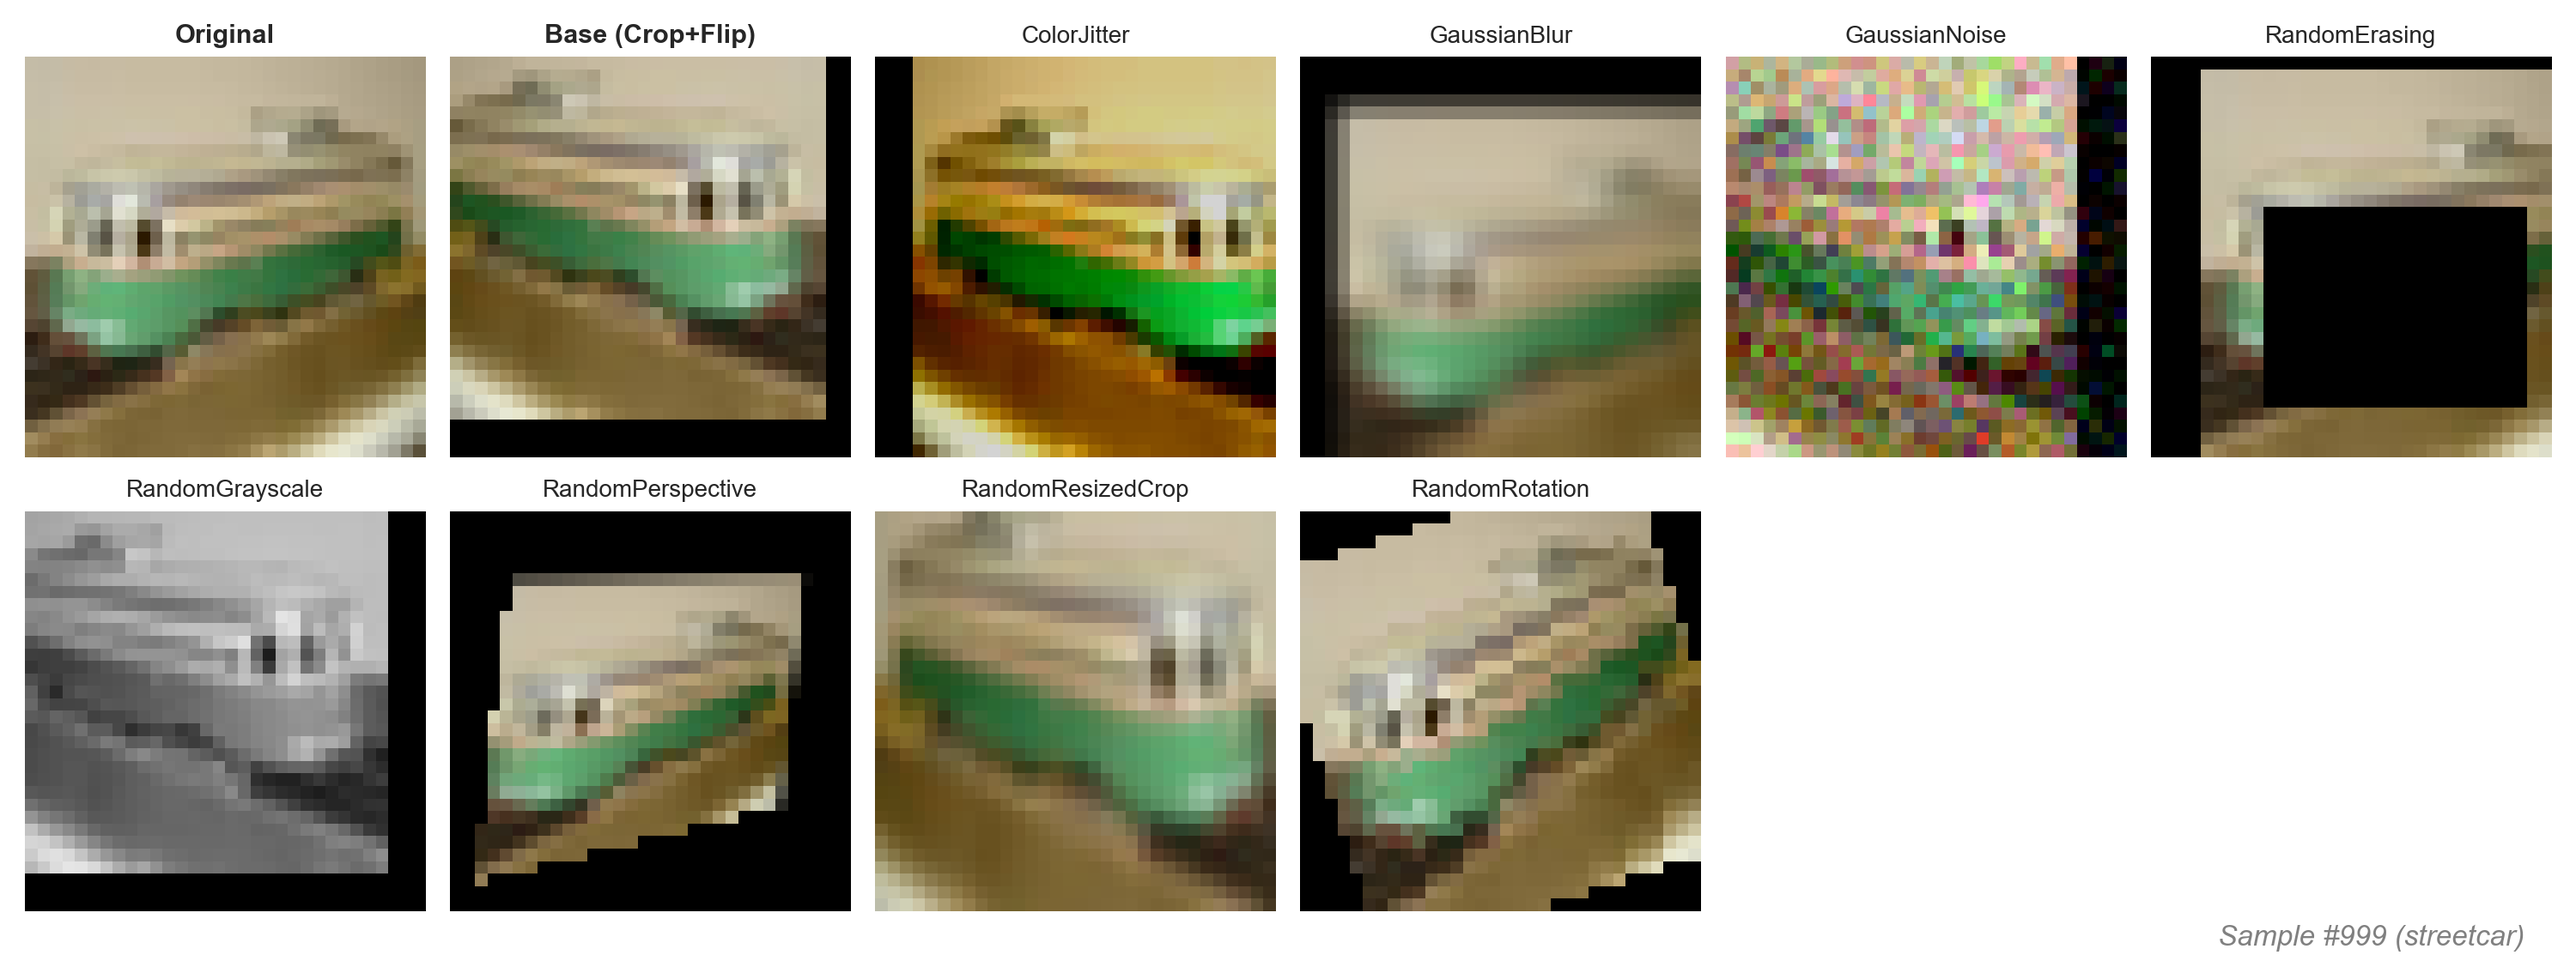
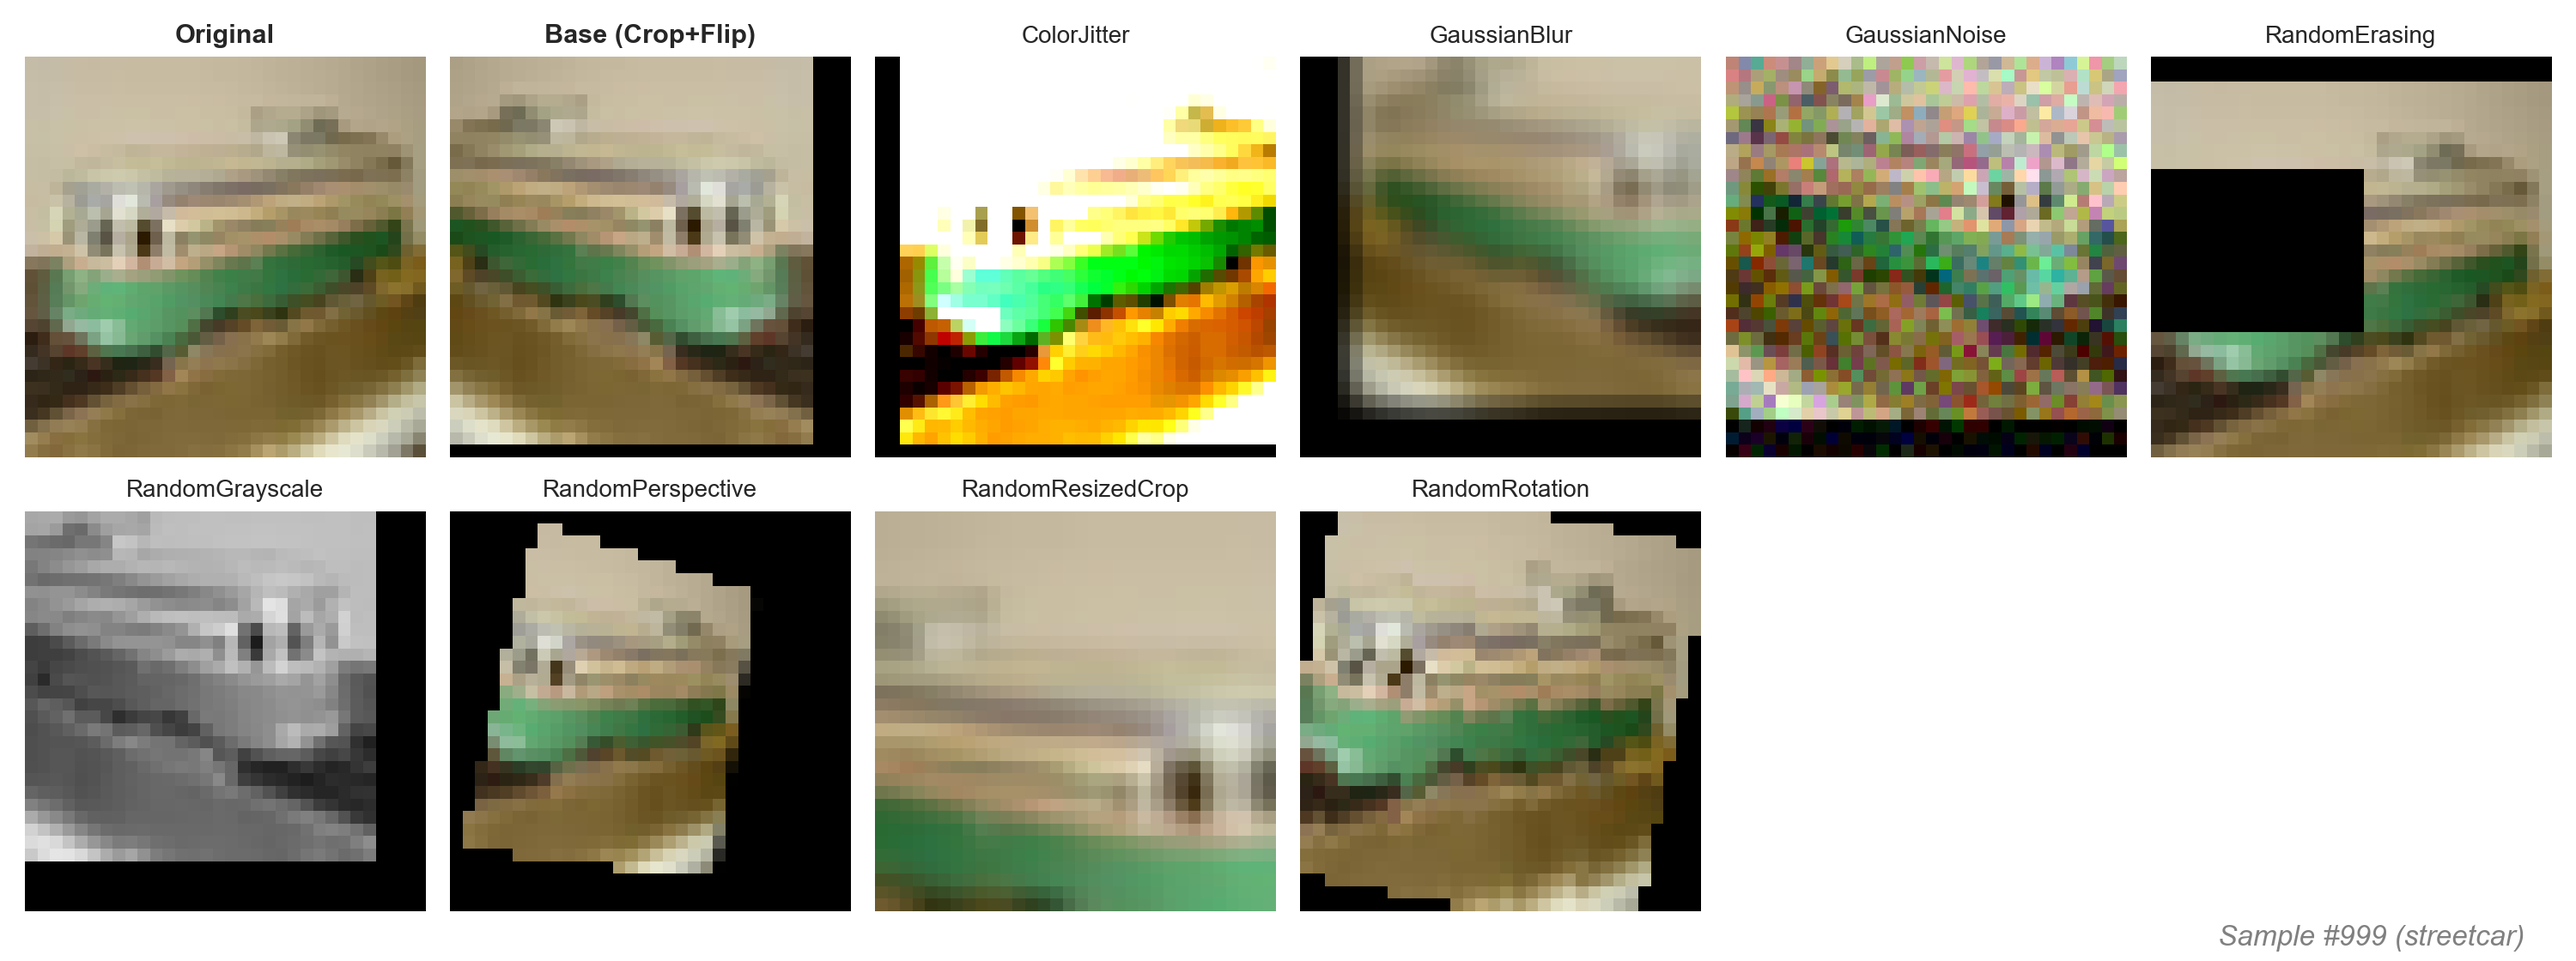
refactor: remove `--out_dir` argument from augmentation visualization script and update `fig3_augmentation_grid.png`.

diff --git a/scripts/visualize_augmentations.py b/scripts/visualize_augmentations.py
@@ -48,13 +48,10 @@ def save_single_image(img_tensor, title, out_path):
 
 def main() -> int:
     parser = argparse.ArgumentParser(description="Visualize all augmentations")
-    parser.add_argument("--out_dir", type=Path, default=Path("outputs/figures/augment_examples"), help="Directory to save figures")
     parser.add_argument("--data_root", type=Path, default=Path("./data"), help="CIFAR-100 data root")
     parser.add_argument("--fold_idx", type=int, default=0, help="Fold index for sampling")
     parser.add_argument("--sample_idx", type=int, default=999, help="Index of the image to use (pick one that looks good)")
     args = parser.parse_args()
-
-    args.out_dir.mkdir(parents=True, exist_ok=True)
     
     print(f"Loading dataset (Fold {args.fold_idx})...")
     ds = CIFAR100Subsampled(root=args.data_root, train=False, fold_idx=args.fold_idx, download=True)
